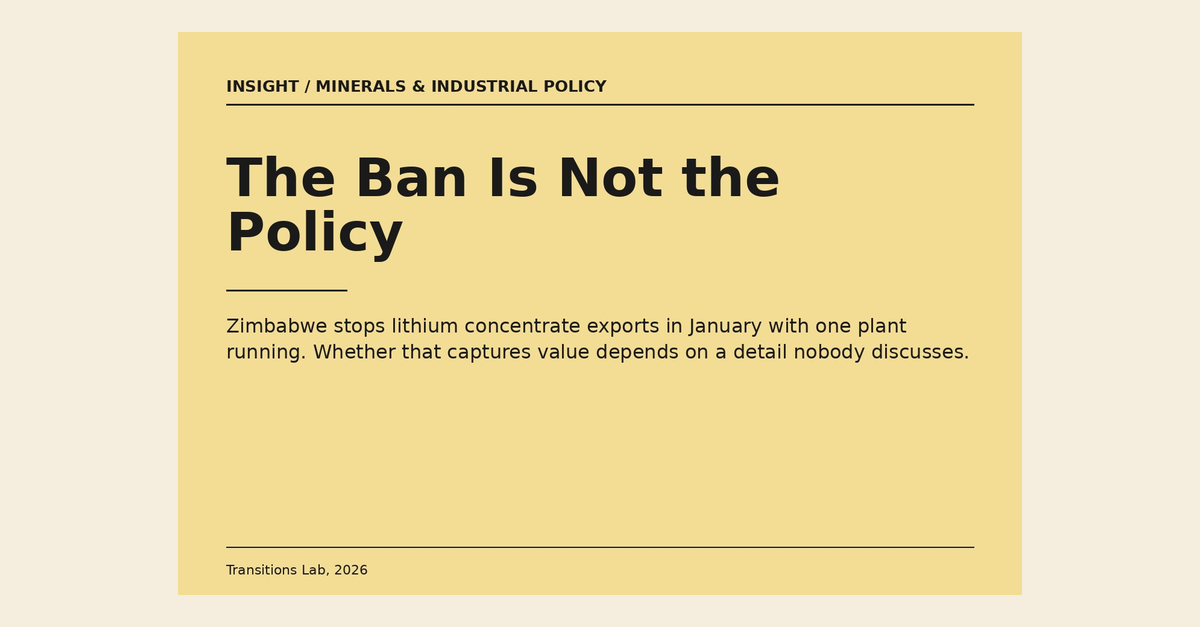
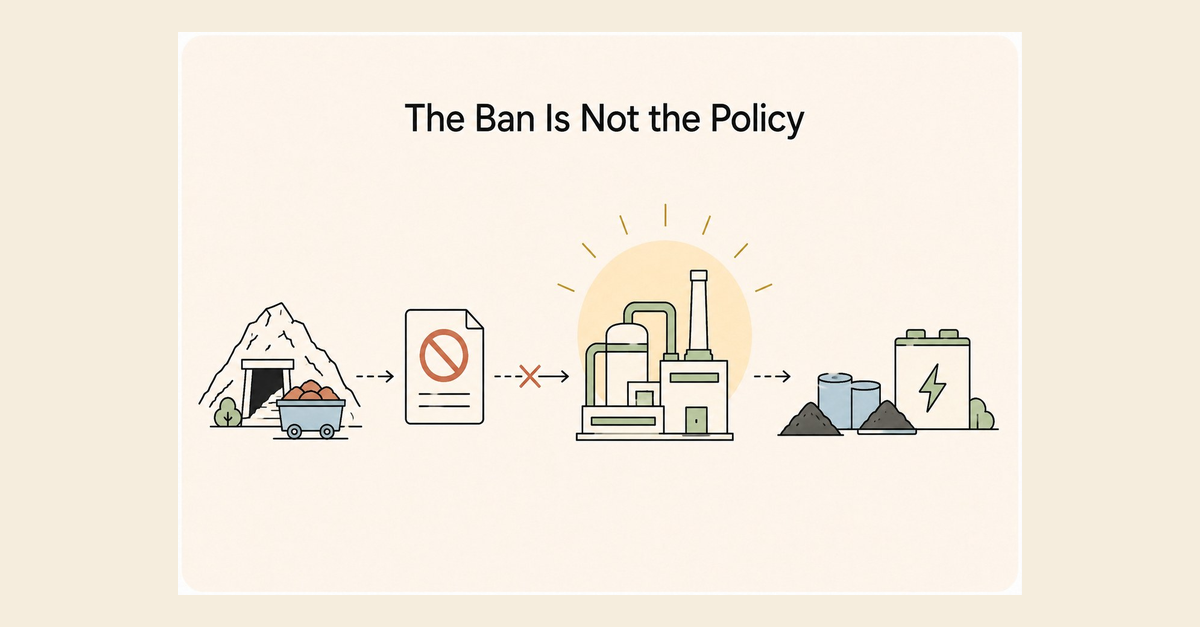
Illustrated title cards for the four 30 August insight articles
Swaps the placeholder butter cards for the supplied line-art scenes,
and updates alt text and figcaptions to describe what is actually in
each image on the article, on the home page card and in the articles
list. OG cards regenerated from the new heroes.

- Ban Is Not the Policy: mine, banned export document, refinery,
  battery with intermediate materials.
- Fire Was Put Out by People Making a Living: shepherd, farmer,
  coppicer on one side of a landscape, untended shrubland burning on
  the other.
- Recycled Material Is a Promise: mixed-pellet bin, lab flask and
  certified clipboard with rosette, factory with finished product.
- Who Does It Fail For?: microphone and model, a fork in the
  waveform, one path clean and the other broken.

Claude-Session: https://claude.ai/code/session_01UTkcwmfvBCDVuALj2XrD2r

diff --git a/articles.html b/articles.html
@@ -145,7 +145,7 @@
   <p class="filter-empty" hidden>No articles match that combination. <button type="button" class="filter-reset">Reset filters</button></p>
 </div>
 <div class="article-list"><div class="article-item has-thumb" data-category="industrial-policy" data-geography="africa" data-month="2026-08">
-    <a class="article-thumb-link" href="/insight-ban-is-not-the-policy"><img class="article-thumb" src="/assets/img/insight-ban-is-not-the-policy-diagram.jpg" alt="A butter-yellow title card marking The Ban Is Not the Policy, on Zimbabwe's lithium export restriction, Morocco's LFP plant at Kenitra, and the difference between a threat and an operating plant."></a>
+    <a class="article-thumb-link" href="/insight-ban-is-not-the-policy"><img class="article-thumb" src="/assets/img/insight-ban-is-not-the-policy-diagram.jpg" alt="Line-art sequence: mine and ore cart, then a shipping document stamped with a no-export symbol and a crossed dashed arrow, then a refining plant, then a battery cell beside piles of intermediate material."></a>
     <div class="article-body">
       <a class="article-title" href="/insight-ban-is-not-the-policy">The Ban Is Not the Policy</a>
       <div class="article-meta">30 August 2026</div>
@@ -153,7 +153,7 @@
       <p class="article-desc">Zimbabwe stops lithium concentrate exports in January with one plant running. Whether that captures value depends on a detail nobody discusses.</p>
     </div>
   </div><div class="article-item has-thumb" data-category="europe" data-geography="europe" data-month="2026-08">
-    <a class="article-thumb-link" href="/insight-fire-and-livelihood"><img class="article-thumb" src="/assets/img/insight-fire-and-livelihood-diagram.jpg" alt="A butter-yellow title card marking The Fire Was Put Out by People Making a Living, on rural depopulation, fuel accumulation, and the difference between paying for a practice and keeping the person."></a>
+    <a class="article-thumb-link" href="/insight-fire-and-livelihood"><img class="article-thumb" src="/assets/img/insight-fire-and-livelihood-diagram.jpg" alt="Line-art landscape: shepherd and flock, farmer digging vegetables, coppicer at a stack of firewood beside a tree — and to the right, an untended shrubland burning."></a>
     <div class="article-body">
       <a class="article-title" href="/insight-fire-and-livelihood">The Fire Was Put Out by People Making a Living</a>
       <div class="article-meta">30 August 2026</div>
@@ -161,7 +161,7 @@
       <p class="article-desc">Fuel management was a by-product of farming, never a service anybody bought. Buying it directly costs far more and lasts only as long as the budget.</p>
     </div>
   </div><div class="article-item has-thumb" data-category="europe" data-geography="europe" data-month="2026-08">
-    <a class="article-thumb-link" href="/insight-recycled-is-a-promise"><img class="article-thumb" src="/assets/img/insight-recycled-is-a-promise-diagram.jpg" alt="A butter-yellow title card marking A Recycled Material Is a Promise, on the Akerlof lemons mechanism in secondary materials markets, and the institutions that would let a buyer pay a premium for quality they cannot see."></a>
+    <a class="article-thumb-link" href="/insight-recycled-is-a-promise"><img class="article-thumb" src="/assets/img/insight-recycled-is-a-promise-diagram.jpg" alt="Line-art scene: recycling symbol above a bin of mixed pellets, then a lab flask with a certification clipboard and a rosette, then a factory with rolls of finished product at its entrance."></a>
     <div class="article-body">
       <a class="article-title" href="/insight-recycled-is-a-promise">A Recycled Material Is a Promise</a>
       <div class="article-meta">30 August 2026</div>
@@ -169,7 +169,7 @@
       <p class="article-desc">None of the bottlenecks Europe found in 120 circularity projects is a recycling technology. They are all institutions for verifying a claim.</p>
     </div>
   </div><div class="article-item has-thumb" data-category="ai-digital" data-geography="global" data-month="2026-08">
-    <a class="article-thumb-link" href="/insight-who-does-it-fail-for"><img class="article-thumb" src="/assets/img/insight-who-does-it-fail-for-diagram.jpg" alt="A butter-yellow title card marking Who Does It Fail For?, on average accuracy versus the distribution an institution actually experiences, and on evaluating a system on the people it was built to include."></a>
+    <a class="article-thumb-link" href="/insight-who-does-it-fail-for"><img class="article-thumb" src="/assets/img/insight-who-does-it-fail-for-diagram.jpg" alt="Line-art diagram: microphone and model emitting a voice waveform that forks — upper path to three figures, a tick and a clean transcription; lower path to a single figure, an amber warning and a broken transcription."></a>
     <div class="article-body">
       <a class="article-title" href="/insight-who-does-it-fail-for">Who Does It Fail For?</a>
       <div class="article-meta">30 August 2026</div>

diff --git a/index.html b/index.html
@@ -254,7 +254,7 @@
       </a>
       <a class="insight-card has-photo" href="/insight-ban-is-not-the-policy">
         <div class="card-photo">
-          <img src="/assets/img/insight-ban-is-not-the-policy-diagram.jpg" alt="A butter-yellow title card marking The Ban Is Not the Policy, on Zimbabwe's lithium export restriction, Morocco's LFP plant at Kenitra, and the difference between a threat and an operating plant.">
+          <img src="/assets/img/insight-ban-is-not-the-policy-diagram.jpg" alt="Line-art sequence: on the left a mine entrance with an ore cart of concentrate; then a shipping document stamped with a red no-export symbol, with a dashed arrow ending in a cross; then a refining plant under a warm sun; then a battery cell with piles of intermediate materials at its foot - the chain that a ban is meant to force into place.">
           <span class="kicker">Insight &middot; Industrial Policy</span>
         </div>
         <div class="body">
@@ -265,7 +265,7 @@
       </a>
       <a class="insight-card has-photo desktop-only" href="/insight-fire-and-livelihood">
         <div class="card-photo">
-          <img src="/assets/img/insight-fire-and-livelihood-diagram.jpg" alt="A butter-yellow title card marking The Fire Was Put Out by People Making a Living, on rural depopulation, fuel accumulation, and the difference between paying for a practice and keeping the person.">
+          <img src="/assets/img/insight-fire-and-livelihood-diagram.jpg" alt="Line-art landscape: on the left, a shepherd with a flock of sheep, a farmer digging a bed of vegetables, and a coppicer at a stack of firewood beside a young tree - people at work in the countryside; on the right, an untended shrubland burning, with flames and smoke rising from a continuous fuel bed.">
           <span class="kicker">Insight &middot; Rural Transition</span>
         </div>
         <div class="body">
@@ -276,7 +276,7 @@
       </a>
       <a class="insight-card has-photo desktop-only" href="/insight-recycled-is-a-promise">
         <div class="card-photo">
-          <img src="/assets/img/insight-recycled-is-a-promise-diagram.jpg" alt="A butter-yellow title card marking A Recycled Material Is a Promise, on the Akerlof lemons mechanism in secondary materials markets, and the institutions that would let a buyer pay a premium for quality they cannot see.">
+          <img src="/assets/img/insight-recycled-is-a-promise-diagram.jpg" alt="Line-art scene: on the left, a recycling symbol above a bin of mixed coloured pellets and shredded material; in the middle, a laboratory flask beside a clipboard with a green tick and a certification rosette overhead; on the right, a factory with rolls of finished product stacked at its entrance.">
           <span class="kicker">Insight &middot; Circular Economy</span>
         </div>
         <div class="body">
@@ -287,7 +287,7 @@
       </a>
       <a class="insight-card has-photo desktop-only" href="/insight-who-does-it-fail-for">
         <div class="card-photo">
-          <img src="/assets/img/insight-who-does-it-fail-for-diagram.jpg" alt="A butter-yellow title card marking Who Does It Fail For?, on average accuracy versus the distribution an institution actually experiences, and on evaluating a system on the people it was built to include.">
+          <img src="/assets/img/insight-who-does-it-fail-for-diagram.jpg" alt="Line-art diagram: on the left a microphone and a model panel emitting a voice waveform that then splits along a dashed fork; the upper path runs to a group of three figures, a green tick and a clean transcription; the lower path runs to a single figure of colour, an amber warning and a broken, uneven transcription.">
           <span class="kicker">Insight &middot; AI &amp; Public Services</span>
         </div>
         <div class="body">

diff --git a/insight-ban-is-not-the-policy.html b/insight-ban-is-not-the-policy.html
@@ -106,8 +106,8 @@
       
       <p class="article-meta"><span class="article-date">30 August 2026</span> · <span class="article-reading-time">6 min read</span></p>
 <figure>
-<img src="/assets/img/insight-ban-is-not-the-policy-diagram.jpg" alt="A butter-yellow title card marking The Ban Is Not the Policy, on Zimbabwe's lithium export restriction, Morocco's LFP plant at Kenitra, and the difference between a threat and an operating plant." class="diagram">
-<figcaption>An export ban is a threat. A ban paired with an open plant is an industrial policy. Zimbabwe has one instrument. Morocco is running the other.</figcaption>
+<img src="/assets/img/insight-ban-is-not-the-policy-diagram.jpg" alt="Line-art sequence: on the left a mine entrance with an ore cart of concentrate; then a shipping document stamped with a red no-export symbol, with a dashed arrow ending in a cross; then a refining plant under a warm sun; then a battery cell with piles of intermediate materials at its foot." class="diagram">
+<figcaption>The ban stops the export. Whether the arrow across the middle actually reaches the refinery, and whether other people's ore can enter it, is the whole policy.</figcaption>
 </figure>
 <h2>What Zimbabwe and Morocco reveal about sequencing, credibility and third party access</h2>
 <p>Zimbabwe intends to prohibit the export of lithium concentrates from January 2027, a decision <a href="https://www.mining.com/web/zimbabwe-to-ban-export-of-lithium-concentrates-from-2027/" target="_blank" rel="noopener">announced in June 2025</a> by Mines Minister Winston Chitando on the basis that domestic processing capacity would exist by then. Two lithium sulphate plants were named: Bikita Minerals, owned by Sinomine, and Prospect Lithium Zimbabwe, owned by Zhejiang Huayou Cobalt. Zimbabwe holds <a href="https://www.spglobal.com/energy/en/news-research/latest-news/metals/061125-zimbabwe-to-ban-lithium-concentrate-exports-from-2027-to-boost-refining" target="_blank" rel="noopener">Africa's largest lithium reserves</a>, and its principal lithium assets are Chinese owned, with Arcadia acquired by Huayou for 422 million dollars in 2021 and Bikita by Sinomine.</p>

diff --git a/insight-fire-and-livelihood.html b/insight-fire-and-livelihood.html
@@ -106,8 +106,8 @@
       
       <p class="article-meta"><span class="article-date">30 August 2026</span> · <span class="article-reading-time">6 min read</span></p>
 <figure>
-<img src="/assets/img/insight-fire-and-livelihood-diagram.jpg" alt="A butter-yellow title card marking The Fire Was Put Out by People Making a Living, on rural depopulation, fuel accumulation, and the difference between paying for a practice and keeping the person." class="diagram">
-<figcaption>The activity had two outputs. Only one had a market. When the market failed, the other went with it.</figcaption>
+<img src="/assets/img/insight-fire-and-livelihood-diagram.jpg" alt="Line-art landscape: on the left, a shepherd with a flock of sheep, a farmer digging a bed of vegetables, and a coppicer at a stack of firewood beside a young tree, all at work in a broken-up countryside; on the right, an untended shrubland with a fire burning through it, flames and smoke rising from a continuous fuel bed." class="diagram">
+<figcaption>The people on the left produced lamb, vegetables and firewood. They also, incidentally, produced the gap on the ground that keeps the scene on the right from being a single run.</figcaption>
 </figure>
 <h2>Why wildfire policy is rural policy, and why paying for the practice is not the same as keeping the person</h2>
 <p>As of 26 August 2026, <a href="https://joint-research-centre.ec.europa.eu/scientific-activities/natural-and-man-made-hazards/forest-fires/current-wildfire-situation-europe_en" target="_blank" rel="noopener">634,022 hectares</a> had burned across the European Union. That is below the 984,559 hectares recorded by the same date in 2025, the worst year on record, and roughly <a href="https://joint-research-centre.ec.europa.eu/scientific-activities/natural-and-man-made-hazards/forest-fires/current-wildfire-situation-europe_en" target="_blank" rel="noopener">double the 2006 to 2025 average</a> of 313,246 hectares.</p>

diff --git a/insight-recycled-is-a-promise.html b/insight-recycled-is-a-promise.html
@@ -106,8 +106,8 @@
       
       <p class="article-meta"><span class="article-date">30 August 2026</span> · <span class="article-reading-time">6 min read</span></p>
 <figure>
-<img src="/assets/img/insight-recycled-is-a-promise-diagram.jpg" alt="A butter-yellow title card marking A Recycled Material Is a Promise, on the Akerlof lemons mechanism in secondary materials markets, and the institutions that would let a buyer pay a premium for quality they cannot see." class="diagram">
-<figcaption>The buyer cannot inspect the past of the material. What they are pricing is a promise.</figcaption>
+<img src="/assets/img/insight-recycled-is-a-promise-diagram.jpg" alt="Line-art scene: on the left, a recycling symbol above a bin of mixed coloured pellets and shredded material; in the middle, a laboratory flask beside a clipboard with a green tick and a certification rosette overhead; on the right, a factory with rolls of finished product stacked at its entrance." class="diagram">
+<figcaption>Everything on the left arrives as a mixture with no history. Whether the buyer on the right will pay for it depends on what the certification in the middle can actually stand behind.</figcaption>
 </figure>
 <h2>Why downcycling is partly an information failure, and what fixes it</h2>
 <p>The European Commission has drawn together findings from 120 Horizon 2020 and Horizon Europe projects to inform the forthcoming <a href="https://environment.ec.europa.eu/topics/circular-economy_en" target="_blank" rel="noopener">Circular Economy Act</a>, spanning construction, textiles, electronics, plastics, mobility and bio-based industries. The recurring bottlenecks it identifies concern procurement, producer responsibility, markets for recycled materials, regional cooperation and the recovery of critical raw materials.</p>

diff --git a/insight-who-does-it-fail-for.html b/insight-who-does-it-fail-for.html
@@ -106,8 +106,8 @@
       
       <p class="article-meta"><span class="article-date">30 August 2026</span> · <span class="article-reading-time">6 min read</span></p>
 <figure>
-<img src="/assets/img/insight-who-does-it-fail-for-diagram.jpg" alt="A butter-yellow title card marking Who Does It Fail For?, on average accuracy versus the distribution an institution actually experiences, and on evaluating a system on the people it was built to include." class="diagram">
-<figcaption>An average sits well below the tail. The people in the tail are the ones the system was built for.</figcaption>
+<img src="/assets/img/insight-who-does-it-fail-for-diagram.jpg" alt="Line-art diagram: on the left a microphone and a model panel emitting a voice waveform that then splits along a dashed fork; the upper path runs to a group of three figures, a green tick and a clean transcription; the lower path runs to a single figure of colour, an amber warning and a broken, uneven transcription." class="diagram">
+<figcaption>The same model. The same waveform. Two very different experiences of it, and only the top one appears in the accuracy number.</figcaption>
 </figure>
 <h2>An average accuracy figure cannot answer the only question that matters in a clinic</h2>
 <p>Nigerian company <a href="https://www.intron.io/" target="_blank" rel="noopener">Intron</a> has released Sahara v2.5, extending bilingual speech recognition across twelve African language combinations and adding a trilingual Kinyarwanda, English and French model. The system is built around code-switching, meaning it is designed for how people actually speak in healthcare, finance, courts and commerce, rather than assuming a conversation stays in one language.</p>

diff --git a/_build.py b/_build.py
@@ -1392,7 +1392,7 @@ def build_home() -> str:
       </a>
       <a class="insight-card has-photo" href="/insight-ban-is-not-the-policy">
         <div class="card-photo">
-          <img src="/assets/img/insight-ban-is-not-the-policy-diagram.jpg" alt="A butter-yellow title card marking The Ban Is Not the Policy, on Zimbabwe's lithium export restriction, Morocco's LFP plant at Kenitra, and the difference between a threat and an operating plant.">
+          <img src="/assets/img/insight-ban-is-not-the-policy-diagram.jpg" alt="Line-art sequence: on the left a mine entrance with an ore cart of concentrate; then a shipping document stamped with a red no-export symbol, with a dashed arrow ending in a cross; then a refining plant under a warm sun; then a battery cell with piles of intermediate materials at its foot - the chain that a ban is meant to force into place.">
           <span class="kicker">Insight &middot; Industrial Policy</span>
         </div>
         <div class="body">
@@ -1403,7 +1403,7 @@ def build_home() -> str:
       </a>
       <a class="insight-card has-photo desktop-only" href="/insight-fire-and-livelihood">
         <div class="card-photo">
-          <img src="/assets/img/insight-fire-and-livelihood-diagram.jpg" alt="A butter-yellow title card marking The Fire Was Put Out by People Making a Living, on rural depopulation, fuel accumulation, and the difference between paying for a practice and keeping the person.">
+          <img src="/assets/img/insight-fire-and-livelihood-diagram.jpg" alt="Line-art landscape: on the left, a shepherd with a flock of sheep, a farmer digging a bed of vegetables, and a coppicer at a stack of firewood beside a young tree - people at work in the countryside; on the right, an untended shrubland burning, with flames and smoke rising from a continuous fuel bed.">
           <span class="kicker">Insight &middot; Rural Transition</span>
         </div>
         <div class="body">
@@ -1414,7 +1414,7 @@ def build_home() -> str:
       </a>
       <a class="insight-card has-photo desktop-only" href="/insight-recycled-is-a-promise">
         <div class="card-photo">
-          <img src="/assets/img/insight-recycled-is-a-promise-diagram.jpg" alt="A butter-yellow title card marking A Recycled Material Is a Promise, on the Akerlof lemons mechanism in secondary materials markets, and the institutions that would let a buyer pay a premium for quality they cannot see.">
+          <img src="/assets/img/insight-recycled-is-a-promise-diagram.jpg" alt="Line-art scene: on the left, a recycling symbol above a bin of mixed coloured pellets and shredded material; in the middle, a laboratory flask beside a clipboard with a green tick and a certification rosette overhead; on the right, a factory with rolls of finished product stacked at its entrance.">
           <span class="kicker">Insight &middot; Circular Economy</span>
         </div>
         <div class="body">
@@ -1425,7 +1425,7 @@ def build_home() -> str:
       </a>
       <a class="insight-card has-photo desktop-only" href="/insight-who-does-it-fail-for">
         <div class="card-photo">
-          <img src="/assets/img/insight-who-does-it-fail-for-diagram.jpg" alt="A butter-yellow title card marking Who Does It Fail For?, on average accuracy versus the distribution an institution actually experiences, and on evaluating a system on the people it was built to include.">
+          <img src="/assets/img/insight-who-does-it-fail-for-diagram.jpg" alt="Line-art diagram: on the left a microphone and a model panel emitting a voice waveform that then splits along a dashed fork; the upper path runs to a group of three figures, a green tick and a clean transcription; the lower path runs to a single figure of colour, an amber warning and a broken, uneven transcription.">
           <span class="kicker">Insight &middot; AI &amp; Public Services</span>
         </div>
         <div class="body">

diff --git a/content/articles.md b/content/articles.md
@@ -49,7 +49,7 @@ The Lab publishes articles for the same reason it takes on any research: some qu
 </div>
 
 <div class="article-list"><div class="article-item has-thumb" data-category="industrial-policy" data-geography="africa" data-month="2026-08">
-    <a class="article-thumb-link" href="/insight-ban-is-not-the-policy"><img class="article-thumb" src="/assets/img/insight-ban-is-not-the-policy-diagram.jpg" alt="A butter-yellow title card marking The Ban Is Not the Policy, on Zimbabwe's lithium export restriction, Morocco's LFP plant at Kenitra, and the difference between a threat and an operating plant."></a>
+    <a class="article-thumb-link" href="/insight-ban-is-not-the-policy"><img class="article-thumb" src="/assets/img/insight-ban-is-not-the-policy-diagram.jpg" alt="Line-art sequence: mine and ore cart, then a shipping document stamped with a no-export symbol and a crossed dashed arrow, then a refining plant, then a battery cell beside piles of intermediate material."></a>
     <div class="article-body">
       <a class="article-title" href="/insight-ban-is-not-the-policy">The Ban Is Not the Policy</a>
       <div class="article-meta">30 August 2026</div>
@@ -57,7 +57,7 @@ The Lab publishes articles for the same reason it takes on any research: some qu
       <p class="article-desc">Zimbabwe stops lithium concentrate exports in January with one plant running. Whether that captures value depends on a detail nobody discusses.</p>
     </div>
   </div><div class="article-item has-thumb" data-category="europe" data-geography="europe" data-month="2026-08">
-    <a class="article-thumb-link" href="/insight-fire-and-livelihood"><img class="article-thumb" src="/assets/img/insight-fire-and-livelihood-diagram.jpg" alt="A butter-yellow title card marking The Fire Was Put Out by People Making a Living, on rural depopulation, fuel accumulation, and the difference between paying for a practice and keeping the person."></a>
+    <a class="article-thumb-link" href="/insight-fire-and-livelihood"><img class="article-thumb" src="/assets/img/insight-fire-and-livelihood-diagram.jpg" alt="Line-art landscape: shepherd and flock, farmer digging vegetables, coppicer at a stack of firewood beside a tree — and to the right, an untended shrubland burning."></a>
     <div class="article-body">
       <a class="article-title" href="/insight-fire-and-livelihood">The Fire Was Put Out by People Making a Living</a>
       <div class="article-meta">30 August 2026</div>
@@ -65,7 +65,7 @@ The Lab publishes articles for the same reason it takes on any research: some qu
       <p class="article-desc">Fuel management was a by-product of farming, never a service anybody bought. Buying it directly costs far more and lasts only as long as the budget.</p>
     </div>
   </div><div class="article-item has-thumb" data-category="europe" data-geography="europe" data-month="2026-08">
-    <a class="article-thumb-link" href="/insight-recycled-is-a-promise"><img class="article-thumb" src="/assets/img/insight-recycled-is-a-promise-diagram.jpg" alt="A butter-yellow title card marking A Recycled Material Is a Promise, on the Akerlof lemons mechanism in secondary materials markets, and the institutions that would let a buyer pay a premium for quality they cannot see."></a>
+    <a class="article-thumb-link" href="/insight-recycled-is-a-promise"><img class="article-thumb" src="/assets/img/insight-recycled-is-a-promise-diagram.jpg" alt="Line-art scene: recycling symbol above a bin of mixed pellets, then a lab flask with a certification clipboard and a rosette, then a factory with rolls of finished product at its entrance."></a>
     <div class="article-body">
       <a class="article-title" href="/insight-recycled-is-a-promise">A Recycled Material Is a Promise</a>
       <div class="article-meta">30 August 2026</div>
@@ -73,7 +73,7 @@ The Lab publishes articles for the same reason it takes on any research: some qu
       <p class="article-desc">None of the bottlenecks Europe found in 120 circularity projects is a recycling technology. They are all institutions for verifying a claim.</p>
     </div>
   </div><div class="article-item has-thumb" data-category="ai-digital" data-geography="global" data-month="2026-08">
-    <a class="article-thumb-link" href="/insight-who-does-it-fail-for"><img class="article-thumb" src="/assets/img/insight-who-does-it-fail-for-diagram.jpg" alt="A butter-yellow title card marking Who Does It Fail For?, on average accuracy versus the distribution an institution actually experiences, and on evaluating a system on the people it was built to include."></a>
+    <a class="article-thumb-link" href="/insight-who-does-it-fail-for"><img class="article-thumb" src="/assets/img/insight-who-does-it-fail-for-diagram.jpg" alt="Line-art diagram: microphone and model emitting a voice waveform that forks — upper path to three figures, a tick and a clean transcription; lower path to a single figure, an amber warning and a broken transcription."></a>
     <div class="article-body">
       <a class="article-title" href="/insight-who-does-it-fail-for">Who Does It Fail For?</a>
       <div class="article-meta">30 August 2026</div>

diff --git a/content/insight-fire-and-livelihood.md b/content/insight-fire-and-livelihood.md
@@ -7,8 +7,8 @@
 <p class="article-meta"><span class="article-date">30 August 2026</span> · <span class="article-reading-time">6 min read</span></p>
 
 <figure>
-<img src="/assets/img/insight-fire-and-livelihood-diagram.jpg" alt="A butter-yellow title card marking The Fire Was Put Out by People Making a Living, on rural depopulation, fuel accumulation, and the difference between paying for a practice and keeping the person." class="diagram">
-<figcaption>The activity had two outputs. Only one had a market. When the market failed, the other went with it.</figcaption>
+<img src="/assets/img/insight-fire-and-livelihood-diagram.jpg" alt="Line-art landscape: on the left, a shepherd with a flock of sheep, a farmer digging a bed of vegetables, and a coppicer at a stack of firewood beside a young tree, all at work in a broken-up countryside; on the right, an untended shrubland with a fire burning through it, flames and smoke rising from a continuous fuel bed." class="diagram">
+<figcaption>The people on the left produced lamb, vegetables and firewood. They also, incidentally, produced the gap on the ground that keeps the scene on the right from being a single run.</figcaption>
 </figure>
 
 

diff --git a/content/insight-ban-is-not-the-policy.md b/content/insight-ban-is-not-the-policy.md
@@ -7,8 +7,8 @@
 <p class="article-meta"><span class="article-date">30 August 2026</span> · <span class="article-reading-time">6 min read</span></p>
 
 <figure>
-<img src="/assets/img/insight-ban-is-not-the-policy-diagram.jpg" alt="A butter-yellow title card marking The Ban Is Not the Policy, on Zimbabwe's lithium export restriction, Morocco's LFP plant at Kenitra, and the difference between a threat and an operating plant." class="diagram">
-<figcaption>An export ban is a threat. A ban paired with an open plant is an industrial policy. Zimbabwe has one instrument. Morocco is running the other.</figcaption>
+<img src="/assets/img/insight-ban-is-not-the-policy-diagram.jpg" alt="Line-art sequence: on the left a mine entrance with an ore cart of concentrate; then a shipping document stamped with a red no-export symbol, with a dashed arrow ending in a cross; then a refining plant under a warm sun; then a battery cell with piles of intermediate materials at its foot." class="diagram">
+<figcaption>The ban stops the export. Whether the arrow across the middle actually reaches the refinery, and whether other people's ore can enter it, is the whole policy.</figcaption>
 </figure>
 
 

diff --git a/content/insight-recycled-is-a-promise.md b/content/insight-recycled-is-a-promise.md
@@ -7,8 +7,8 @@
 <p class="article-meta"><span class="article-date">30 August 2026</span> · <span class="article-reading-time">6 min read</span></p>
 
 <figure>
-<img src="/assets/img/insight-recycled-is-a-promise-diagram.jpg" alt="A butter-yellow title card marking A Recycled Material Is a Promise, on the Akerlof lemons mechanism in secondary materials markets, and the institutions that would let a buyer pay a premium for quality they cannot see." class="diagram">
-<figcaption>The buyer cannot inspect the past of the material. What they are pricing is a promise.</figcaption>
+<img src="/assets/img/insight-recycled-is-a-promise-diagram.jpg" alt="Line-art scene: on the left, a recycling symbol above a bin of mixed coloured pellets and shredded material; in the middle, a laboratory flask beside a clipboard with a green tick and a certification rosette overhead; on the right, a factory with rolls of finished product stacked at its entrance." class="diagram">
+<figcaption>Everything on the left arrives as a mixture with no history. Whether the buyer on the right will pay for it depends on what the certification in the middle can actually stand behind.</figcaption>
 </figure>
 
 

diff --git a/content/insight-who-does-it-fail-for.md b/content/insight-who-does-it-fail-for.md
@@ -7,8 +7,8 @@
 <p class="article-meta"><span class="article-date">30 August 2026</span> · <span class="article-reading-time">6 min read</span></p>
 
 <figure>
-<img src="/assets/img/insight-who-does-it-fail-for-diagram.jpg" alt="A butter-yellow title card marking Who Does It Fail For?, on average accuracy versus the distribution an institution actually experiences, and on evaluating a system on the people it was built to include." class="diagram">
-<figcaption>An average sits well below the tail. The people in the tail are the ones the system was built for.</figcaption>
+<img src="/assets/img/insight-who-does-it-fail-for-diagram.jpg" alt="Line-art diagram: on the left a microphone and a model panel emitting a voice waveform that then splits along a dashed fork; the upper path runs to a group of three figures, a green tick and a clean transcription; the lower path runs to a single figure of colour, an amber warning and a broken, uneven transcription." class="diagram">
+<figcaption>The same model. The same waveform. Two very different experiences of it, and only the top one appears in the accuracy number.</figcaption>
 </figure>
 
 
